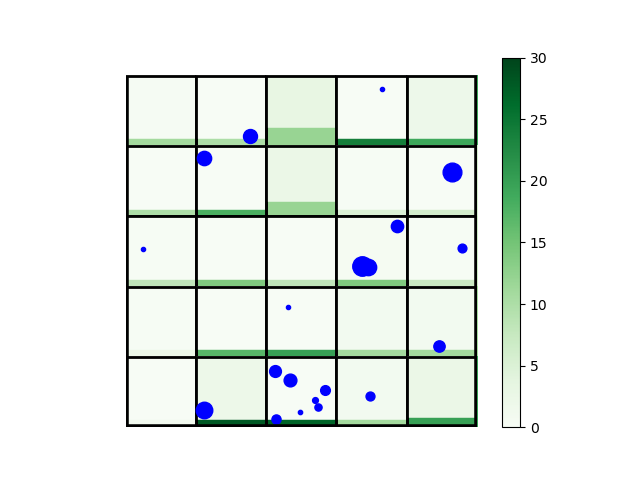
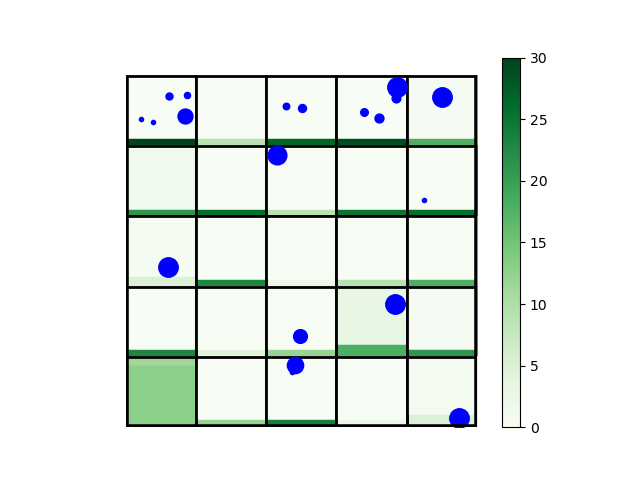
spread out steepness of logiFunc

diff --git a/classCell.py b/classCell.py
@@ -20,7 +20,8 @@ class Cell():
 
         while lowSuccess == False or highSuccess == False:
             # set steepness and center parameters for logistic function
-            steepness = np.random.randint(1, 11)
+            steepOptions = [x for x in np.arange(0.3, 7, 0.1)]
+            steepness = np.random.choice(steepOptions)
             center = np.random.randint(0, 15)
             lowerx = 0
             upperx = []
